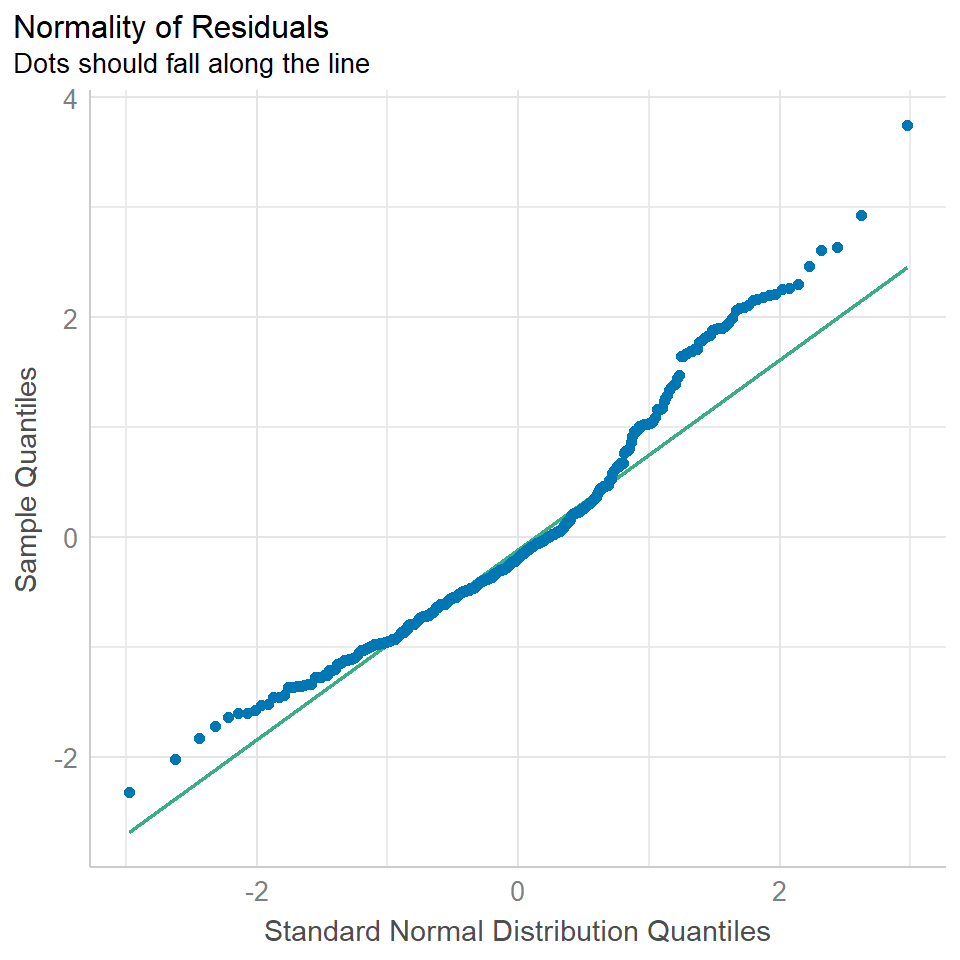
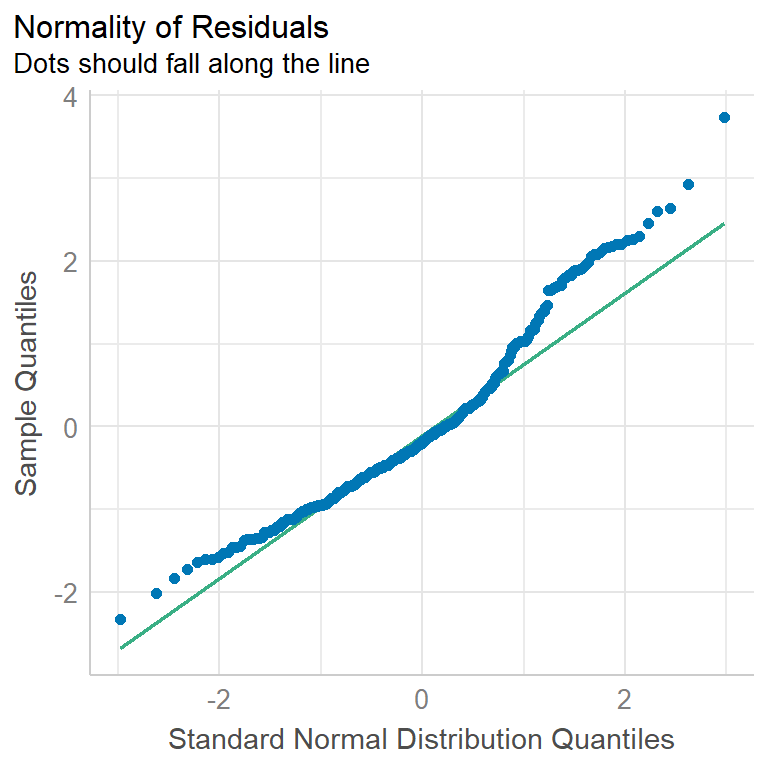
show check model code

Changed region(s): [[0.0, 0.0, 0.9688, 1.0], [0.875, 0.2188, 0.9062, 0.25], [0.8125, 0.75, 0.8438, 0.7812]]

diff --git a/_site/slides/lec08-bivariate_modeling.html b/_site/slides/lec08-bivariate_modeling.html
@@ -1749,8 +1749,13 @@ F-statistic: 186.4 on 1 and 340 DF,  p-value: &lt; 2.2e-16</code></pre>
 <div class="columns">
 <div class="column" style="width:60%;">
 <div class="cell">
+<details>
+<summary>Show the code</summary>
+<div class="sourceCode cell-code" id="cb43"><pre class="sourceCode numberSource r number-lines code-with-copy"><code class="sourceCode r"><span id="cb43-1"><a href="#cb43-1"></a><span class="fu">library</span>(performance)</span>
+<span id="cb43-2"><a href="#cb43-2"></a><span class="fu">plot</span>(<span class="fu">check_normality</span>(pen.body.bill))</span></code><button title="Copy to Clipboard" class="code-copy-button"><i class="bi"></i></button></pre></div>
+</details>
 <div class="cell-output-display">
-<p><img data-src="lec08-bivariate_modeling_files/figure-revealjs/unnamed-chunk-33-1.png" width="480"></p>
+<p><img data-src="lec08-bivariate_modeling_files/figure-revealjs/unnamed-chunk-33-1.png" width="384"></p>
 </div>
 </div>
 </div><div class="column" style="width:40%;">
@@ -1762,8 +1767,12 @@ F-statistic: 186.4 on 1 and 340 DF,  p-value: &lt; 2.2e-16</code></pre>
 <div class="columns">
 <div class="column" style="width:60%;">
 <div class="cell">
+<details>
+<summary>Show the code</summary>
+<div class="sourceCode cell-code" id="cb44"><pre class="sourceCode numberSource r number-lines code-with-copy"><code class="sourceCode r"><span id="cb44-1"><a href="#cb44-1"></a><span class="fu">plot</span>(<span class="fu">check_normality</span>(pen.body.bill), <span class="at">type =</span> <span class="st">"qq"</span>)</span></code><button title="Copy to Clipboard" class="code-copy-button"><i class="bi"></i></button></pre></div>
+</details>
 <div class="cell-output-display">
-<p><img data-src="lec08-bivariate_modeling_files/figure-revealjs/unnamed-chunk-34-1.png" width="480"></p>
+<p><img data-src="lec08-bivariate_modeling_files/figure-revealjs/unnamed-chunk-34-1.png" width="384"></p>
 </div>
 </div>
 </div><div class="column" style="width:40%;">
@@ -1775,8 +1784,12 @@ F-statistic: 186.4 on 1 and 340 DF,  p-value: &lt; 2.2e-16</code></pre>
 <div class="columns">
 <div class="column" style="width:60%;">
 <div class="cell">
+<details>
+<summary>Show the code</summary>
+<div class="sourceCode cell-code" id="cb45"><pre class="sourceCode numberSource r number-lines code-with-copy"><code class="sourceCode r"><span id="cb45-1"><a href="#cb45-1"></a><span class="fu">plot</span>(<span class="fu">check_heteroskedasticity</span>(pen.body.bill))</span></code><button title="Copy to Clipboard" class="code-copy-button"><i class="bi"></i></button></pre></div>
+</details>
 <div class="cell-output-display">
-<p><img data-src="lec08-bivariate_modeling_files/figure-revealjs/unnamed-chunk-35-1.png" width="480"></p>
+<p><img data-src="lec08-bivariate_modeling_files/figure-revealjs/unnamed-chunk-35-1.png" width="384"></p>
 </div>
 </div>
 </div><div class="column" style="width:40%;">
@@ -1788,8 +1801,12 @@ F-statistic: 186.4 on 1 and 340 DF,  p-value: &lt; 2.2e-16</code></pre>
 <div class="columns">
 <div class="column" style="width:60%;">
 <div class="cell">
+<details>
+<summary>Show the code</summary>
+<div class="sourceCode cell-code" id="cb46"><pre class="sourceCode numberSource r number-lines code-with-copy"><code class="sourceCode r"><span id="cb46-1"><a href="#cb46-1"></a><span class="fu">plot</span>(<span class="fu">check_posterior_predictions</span>(pen.body.bill))</span></code><button title="Copy to Clipboard" class="code-copy-button"><i class="bi"></i></button></pre></div>
+</details>
 <div class="cell-output-display">
-<p><img data-src="lec08-bivariate_modeling_files/figure-revealjs/unnamed-chunk-36-1.png" width="480"></p>
+<p><img data-src="lec08-bivariate_modeling_files/figure-revealjs/unnamed-chunk-36-1.png" width="384"></p>
 </div>
 </div>
 </div><div class="column" style="width:40%;">
@@ -1807,7 +1824,7 @@ F-statistic: 186.4 on 1 and 340 DF,  p-value: &lt; 2.2e-16</code></pre>
 <div class="cell">
 <details>
 <summary>Show the code</summary>
-<div class="sourceCode cell-code" id="cb43"><pre class="sourceCode numberSource r number-lines code-with-copy"><code class="sourceCode r"><span id="cb43-1"><a href="#cb43-1"></a>pen.body.bill <span class="sc">|&gt;</span> <span class="fu">coefficients</span>() </span></code><button title="Copy to Clipboard" class="code-copy-button"><i class="bi"></i></button></pre></div>
+<div class="sourceCode cell-code" id="cb47"><pre class="sourceCode numberSource r number-lines code-with-copy"><code class="sourceCode r"><span id="cb47-1"><a href="#cb47-1"></a>pen.body.bill <span class="sc">|&gt;</span> <span class="fu">coefficients</span>() </span></code><button title="Copy to Clipboard" class="code-copy-button"><i class="bi"></i></button></pre></div>
 </details>
 <div class="cell-output cell-output-stdout">
 <pre><code> (Intercept)  body_mass_g 
@@ -1815,7 +1832,7 @@ F-statistic: 186.4 on 1 and 340 DF,  p-value: &lt; 2.2e-16</code></pre>
 </div>
 <details>
 <summary>Show the code</summary>
-<div class="sourceCode cell-code" id="cb45"><pre class="sourceCode numberSource r number-lines code-with-copy"><code class="sourceCode r"><span id="cb45-1"><a href="#cb45-1"></a>pen.body.bill <span class="sc">|&gt;</span> <span class="fu">confint</span>()</span></code><button title="Copy to Clipboard" class="code-copy-button"><i class="bi"></i></button></pre></div>
+<div class="sourceCode cell-code" id="cb49"><pre class="sourceCode numberSource r number-lines code-with-copy"><code class="sourceCode r"><span id="cb49-1"><a href="#cb49-1"></a>pen.body.bill <span class="sc">|&gt;</span> <span class="fu">confint</span>()</span></code><button title="Copy to Clipboard" class="code-copy-button"><i class="bi"></i></button></pre></div>
 </details>
 <div class="cell-output cell-output-stdout">
 <pre><code>                   2.5 %       97.5 %
@@ -1824,7 +1841,7 @@ body_mass_g  0.003467795  0.004635038</code></pre>
 </div>
 <details>
 <summary>Show the code</summary>
-<div class="sourceCode cell-code" id="cb47"><pre class="sourceCode numberSource r number-lines code-with-copy"><code class="sourceCode r"><span id="cb47-1"><a href="#cb47-1"></a>pen.body.bill <span class="sc">|&gt;</span> <span class="fu">r2</span>()</span></code><button title="Copy to Clipboard" class="code-copy-button"><i class="bi"></i></button></pre></div>
+<div class="sourceCode cell-code" id="cb51"><pre class="sourceCode numberSource r number-lines code-with-copy"><code class="sourceCode r"><span id="cb51-1"><a href="#cb51-1"></a>pen.body.bill <span class="sc">|&gt;</span> <span class="fu">r2</span>()</span></code><button title="Copy to Clipboard" class="code-copy-button"><i class="bi"></i></button></pre></div>
 </details>
 <div class="cell-output cell-output-stdout">
 <pre><code># R2 for Linear Regression

diff --git a/slides/lec08-bivariate_modeling-speaker.html b/slides/lec08-bivariate_modeling-speaker.html
@@ -1749,8 +1749,13 @@ F-statistic: 186.4 on 1 and 340 DF,  p-value: &lt; 2.2e-16</code></pre>
 <div class="columns">
 <div class="column" style="width:60%;">
 <div class="cell">
+<details>
+<summary>Show the code</summary>
+<div class="sourceCode cell-code" id="cb43"><pre class="sourceCode numberSource r number-lines code-with-copy"><code class="sourceCode r"><span id="cb43-1"><a href="#cb43-1"></a><span class="fu">library</span>(performance)</span>
+<span id="cb43-2"><a href="#cb43-2"></a><span class="fu">plot</span>(<span class="fu">check_normality</span>(pen.body.bill))</span></code><button title="Copy to Clipboard" class="code-copy-button"><i class="bi"></i></button></pre></div>
+</details>
 <div class="cell-output-display">
-<p><img data-src="lec08-bivariate_modeling_files/figure-revealjs/unnamed-chunk-33-1.png" width="480"></p>
+<p><img data-src="lec08-bivariate_modeling_files/figure-revealjs/unnamed-chunk-33-1.png" width="384"></p>
 </div>
 </div>
 </div><div class="column" style="width:40%;">
@@ -1762,8 +1767,12 @@ F-statistic: 186.4 on 1 and 340 DF,  p-value: &lt; 2.2e-16</code></pre>
 <div class="columns">
 <div class="column" style="width:60%;">
 <div class="cell">
+<details>
+<summary>Show the code</summary>
+<div class="sourceCode cell-code" id="cb44"><pre class="sourceCode numberSource r number-lines code-with-copy"><code class="sourceCode r"><span id="cb44-1"><a href="#cb44-1"></a><span class="fu">plot</span>(<span class="fu">check_normality</span>(pen.body.bill), <span class="at">type =</span> <span class="st">"qq"</span>)</span></code><button title="Copy to Clipboard" class="code-copy-button"><i class="bi"></i></button></pre></div>
+</details>
 <div class="cell-output-display">
-<p><img data-src="lec08-bivariate_modeling_files/figure-revealjs/unnamed-chunk-34-1.png" width="480"></p>
+<p><img data-src="lec08-bivariate_modeling_files/figure-revealjs/unnamed-chunk-34-1.png" width="384"></p>
 </div>
 </div>
 </div><div class="column" style="width:40%;">
@@ -1775,8 +1784,12 @@ F-statistic: 186.4 on 1 and 340 DF,  p-value: &lt; 2.2e-16</code></pre>
 <div class="columns">
 <div class="column" style="width:60%;">
 <div class="cell">
+<details>
+<summary>Show the code</summary>
+<div class="sourceCode cell-code" id="cb45"><pre class="sourceCode numberSource r number-lines code-with-copy"><code class="sourceCode r"><span id="cb45-1"><a href="#cb45-1"></a><span class="fu">plot</span>(<span class="fu">check_heteroskedasticity</span>(pen.body.bill))</span></code><button title="Copy to Clipboard" class="code-copy-button"><i class="bi"></i></button></pre></div>
+</details>
 <div class="cell-output-display">
-<p><img data-src="lec08-bivariate_modeling_files/figure-revealjs/unnamed-chunk-35-1.png" width="480"></p>
+<p><img data-src="lec08-bivariate_modeling_files/figure-revealjs/unnamed-chunk-35-1.png" width="384"></p>
 </div>
 </div>
 </div><div class="column" style="width:40%;">
@@ -1788,8 +1801,12 @@ F-statistic: 186.4 on 1 and 340 DF,  p-value: &lt; 2.2e-16</code></pre>
 <div class="columns">
 <div class="column" style="width:60%;">
 <div class="cell">
+<details>
+<summary>Show the code</summary>
+<div class="sourceCode cell-code" id="cb46"><pre class="sourceCode numberSource r number-lines code-with-copy"><code class="sourceCode r"><span id="cb46-1"><a href="#cb46-1"></a><span class="fu">plot</span>(<span class="fu">check_posterior_predictions</span>(pen.body.bill))</span></code><button title="Copy to Clipboard" class="code-copy-button"><i class="bi"></i></button></pre></div>
+</details>
 <div class="cell-output-display">
-<p><img data-src="lec08-bivariate_modeling_files/figure-revealjs/unnamed-chunk-36-1.png" width="480"></p>
+<p><img data-src="lec08-bivariate_modeling_files/figure-revealjs/unnamed-chunk-36-1.png" width="384"></p>
 </div>
 </div>
 </div><div class="column" style="width:40%;">
@@ -1807,7 +1824,7 @@ F-statistic: 186.4 on 1 and 340 DF,  p-value: &lt; 2.2e-16</code></pre>
 <div class="cell">
 <details>
 <summary>Show the code</summary>
-<div class="sourceCode cell-code" id="cb43"><pre class="sourceCode numberSource r number-lines code-with-copy"><code class="sourceCode r"><span id="cb43-1"><a href="#cb43-1"></a>pen.body.bill <span class="sc">|&gt;</span> <span class="fu">coefficients</span>() </span></code><button title="Copy to Clipboard" class="code-copy-button"><i class="bi"></i></button></pre></div>
+<div class="sourceCode cell-code" id="cb47"><pre class="sourceCode numberSource r number-lines code-with-copy"><code class="sourceCode r"><span id="cb47-1"><a href="#cb47-1"></a>pen.body.bill <span class="sc">|&gt;</span> <span class="fu">coefficients</span>() </span></code><button title="Copy to Clipboard" class="code-copy-button"><i class="bi"></i></button></pre></div>
 </details>
 <div class="cell-output cell-output-stdout">
 <pre><code> (Intercept)  body_mass_g 
@@ -1815,7 +1832,7 @@ F-statistic: 186.4 on 1 and 340 DF,  p-value: &lt; 2.2e-16</code></pre>
 </div>
 <details>
 <summary>Show the code</summary>
-<div class="sourceCode cell-code" id="cb45"><pre class="sourceCode numberSource r number-lines code-with-copy"><code class="sourceCode r"><span id="cb45-1"><a href="#cb45-1"></a>pen.body.bill <span class="sc">|&gt;</span> <span class="fu">confint</span>()</span></code><button title="Copy to Clipboard" class="code-copy-button"><i class="bi"></i></button></pre></div>
+<div class="sourceCode cell-code" id="cb49"><pre class="sourceCode numberSource r number-lines code-with-copy"><code class="sourceCode r"><span id="cb49-1"><a href="#cb49-1"></a>pen.body.bill <span class="sc">|&gt;</span> <span class="fu">confint</span>()</span></code><button title="Copy to Clipboard" class="code-copy-button"><i class="bi"></i></button></pre></div>
 </details>
 <div class="cell-output cell-output-stdout">
 <pre><code>                   2.5 %       97.5 %
@@ -1824,7 +1841,7 @@ body_mass_g  0.003467795  0.004635038</code></pre>
 </div>
 <details>
 <summary>Show the code</summary>
-<div class="sourceCode cell-code" id="cb47"><pre class="sourceCode numberSource r number-lines code-with-copy"><code class="sourceCode r"><span id="cb47-1"><a href="#cb47-1"></a>pen.body.bill <span class="sc">|&gt;</span> <span class="fu">r2</span>()</span></code><button title="Copy to Clipboard" class="code-copy-button"><i class="bi"></i></button></pre></div>
+<div class="sourceCode cell-code" id="cb51"><pre class="sourceCode numberSource r number-lines code-with-copy"><code class="sourceCode r"><span id="cb51-1"><a href="#cb51-1"></a>pen.body.bill <span class="sc">|&gt;</span> <span class="fu">r2</span>()</span></code><button title="Copy to Clipboard" class="code-copy-button"><i class="bi"></i></button></pre></div>
 </details>
 <div class="cell-output cell-output-stdout">
 <pre><code># R2 for Linear Regression

diff --git a/_site/slides.html b/_site/slides.html
@@ -394,7 +394,7 @@ Week
 <a href="./slides/lec07-intro_inference.html" class="title">Statistical Inference with Mathematical Models</a>
 </td>
 </tr>
-<tr data-index="8" data-listing-date-sort="1665558000000" data-listing-file-modified-sort="1666570915845" data-listing-reading-time-sort="30.33" data-listing-title-sort="Modeling Bivariate Relationships" data-listing-filename-sort="lec08-bivariate_modeling.qmd">
+<tr data-index="8" data-listing-date-sort="1665558000000" data-listing-file-modified-sort="1669936752755" data-listing-reading-time-sort="30.29" data-listing-title-sort="Modeling Bivariate Relationships" data-listing-filename-sort="lec08-bivariate_modeling.qmd">
 <td class="listing-description">
 8-10
 </td>
